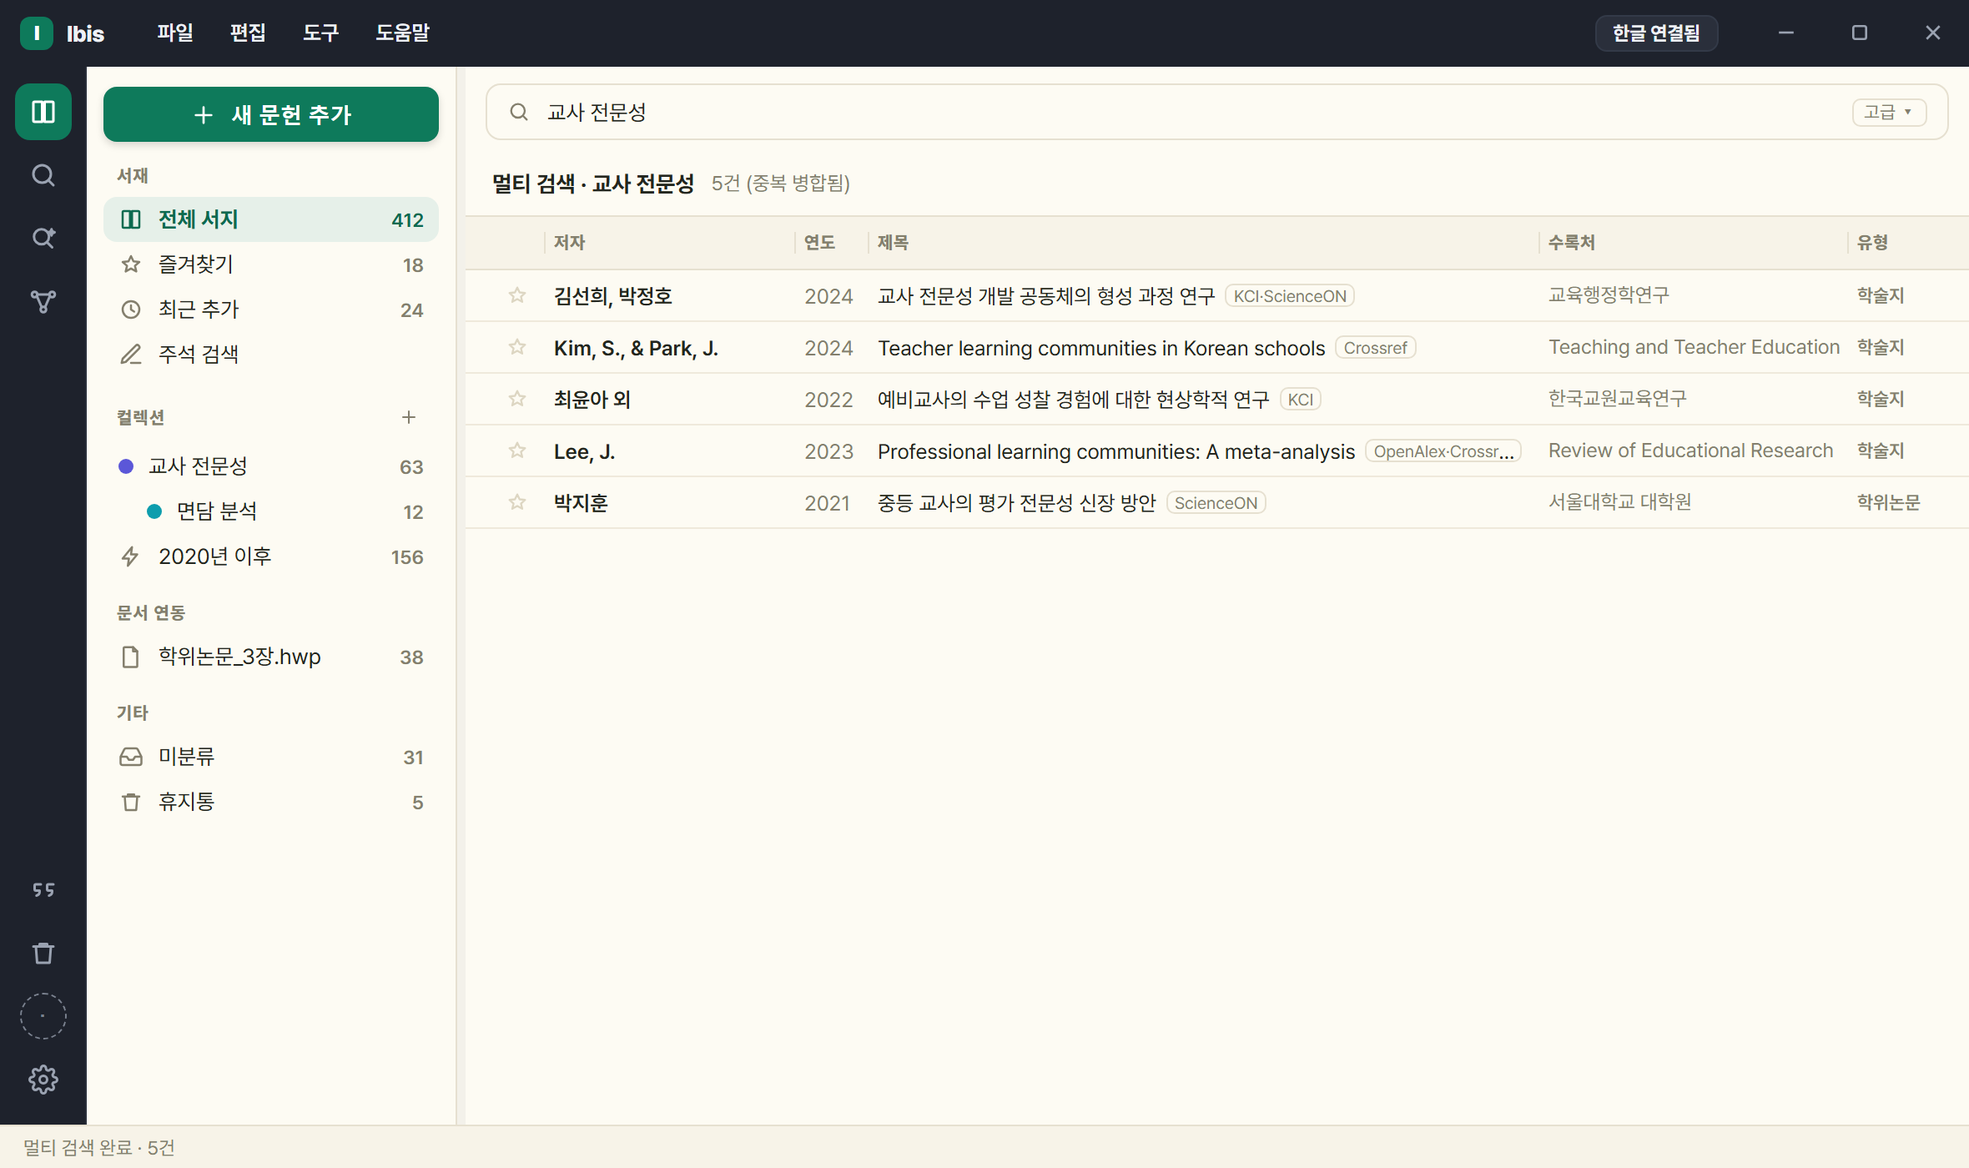
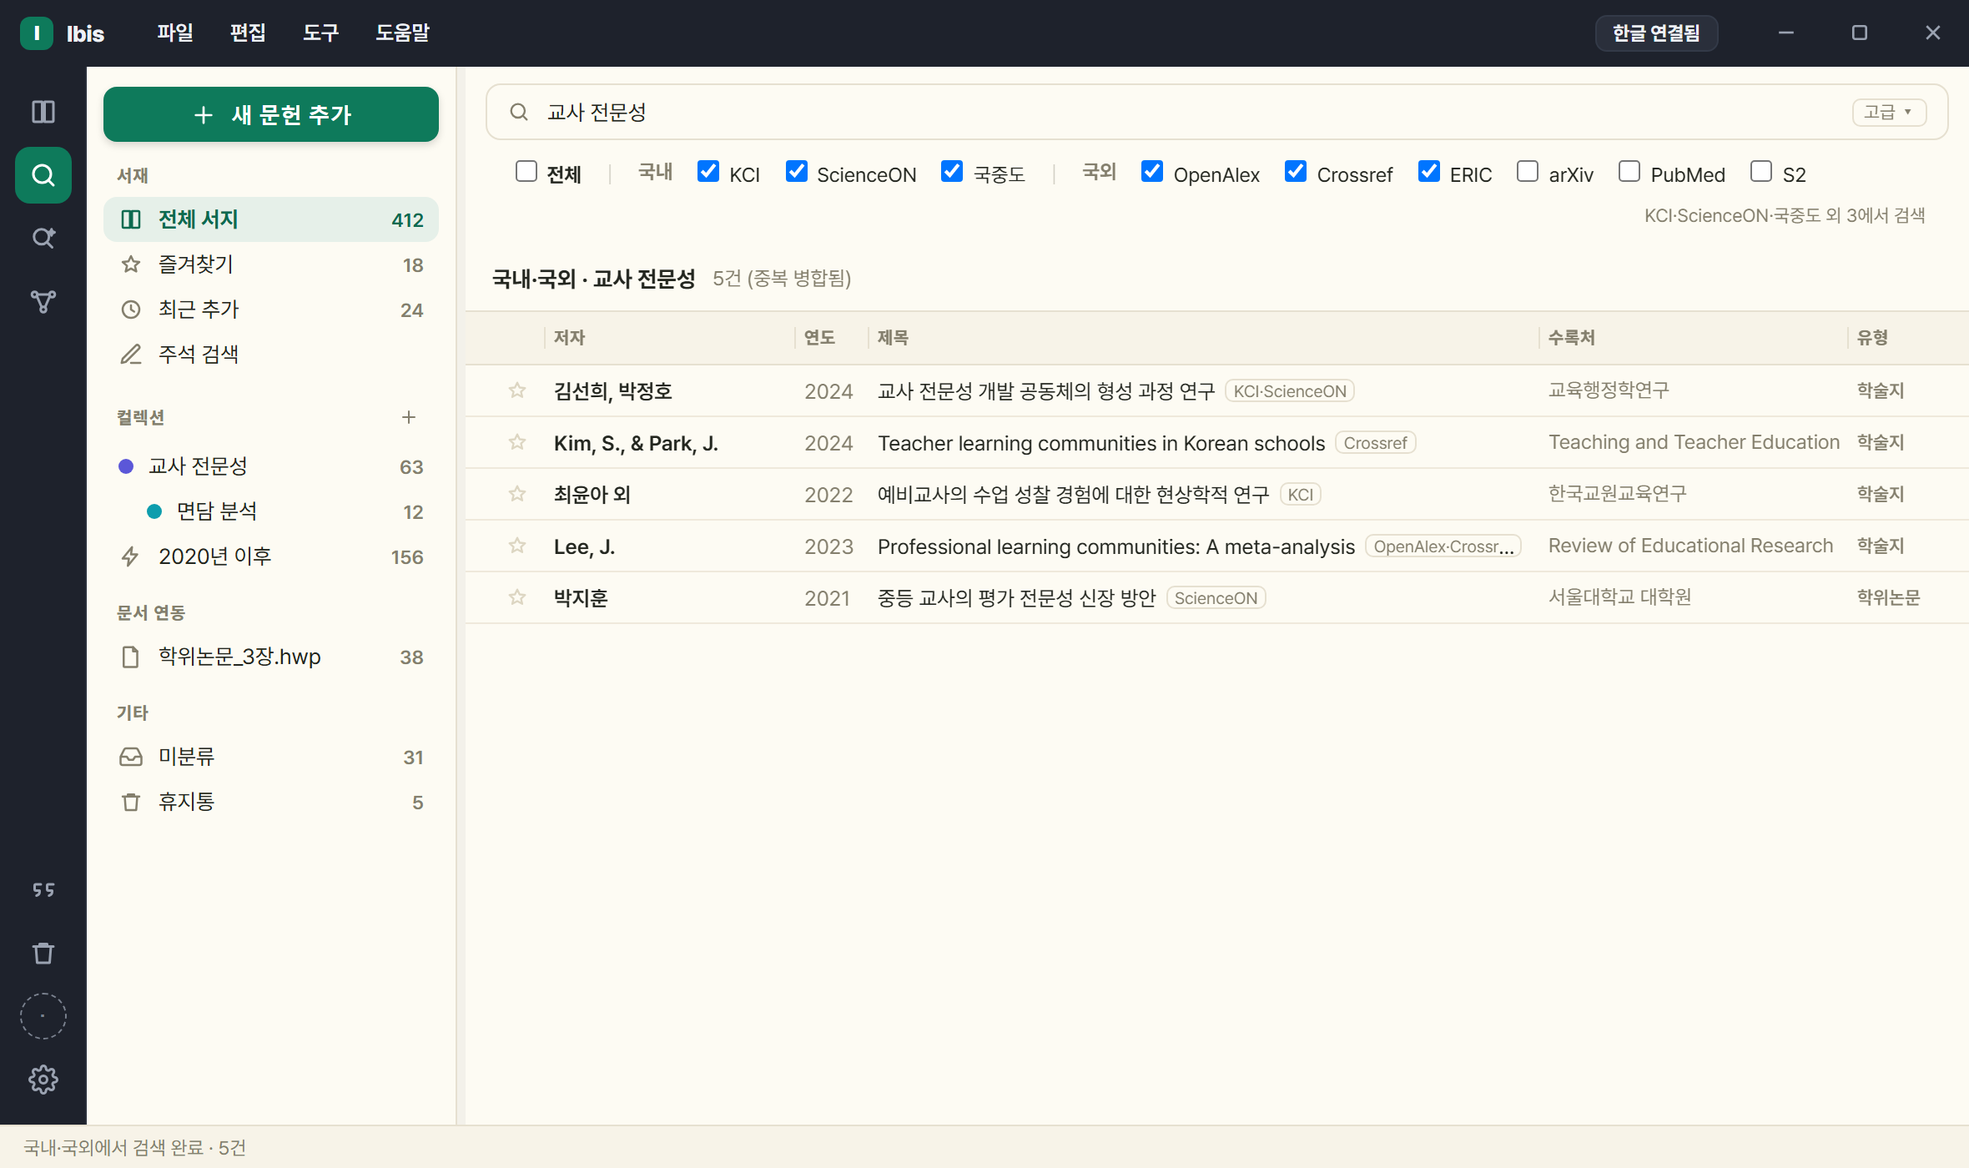
docs: 2026.9.7 반영 — '외부 검색' → 'DB 검색', 소스 선택이 검색줄 아래 체크 행으로
- 기능 이름 '외부 검색'을 전부 'DB 검색'으로(대비어 문장 포함). 남긴 것은 이름이 바뀌었음을 알리는 서술 세 곳뿐
- 3.2: 소스를 사이드바에서 고르던 것이 검색줄 아래 체크 행이 됐다(전체 │ 국내 │ 국외 · 묶음 글자로 통째 토글 ·
  임의 조합 · 조합 기억 · 오른쪽에 '○○에서 검색'). arXiv·PubMed·S2 기본 꺼짐. '내 서지'는 DB 검색 항목이 아니게 됨
- 3.3: '국내 통합'·'해외 통합' 두 항목이 사라졌으므로 「여러 DB 를 한 번에」로 다시 씀
- 3.6·FAQ 고급검색: 소스 드롭다운이 없어지고 전용 필드를 고르면 체크 행이 따라 바뀐다. 전역 한정자에서 소스 제외
- 레일 표: 세 모드가 같은 서재 사이드바를 쓴다는 것 명시. FAQ 신설 「'외부 검색'이 안 보여요」
- search.png 을 새 화면(체크 행 + 서재 사이드바)으로 교체

diff --git a/docs/USAGE.md b/docs/USAGE.md
@@ -1,6 +1,6 @@
 # Ibis 사용 설명서
 
-한국어로 연구하는 사람을 위한 **문헌 관리 앱**. **찾기 → 원문 확보 → 읽기·AI 분석 → 정리·태그 그래프 → 동료와 나누기** 까지 한 프로그램 안에서 합니다. 아래아한글·Word 본문 인용(CWYW)도 그중 한 기능입니다. 기준 버전 **2026.9.6**.
+한국어로 연구하는 사람을 위한 **문헌 관리 앱**. **찾기 → 원문 확보 → 읽기·AI 분석 → 정리·태그 그래프 → 동료와 나누기** 까지 한 프로그램 안에서 합니다. 아래아한글·Word 본문 인용(CWYW)도 그중 한 기능입니다. 기준 버전 **2026.9.7**.
 
 - 표기: `⚙설정` · `파일`·`편집`·`도구` 메뉴 · `새 문헌 추가` 는 화면의 실제 라벨입니다.
 - 좌측 세로 아이콘 줄 = **레일**, 상단의 '○○ 모드 · 문서명' = **상태 배지**.
@@ -58,7 +58,7 @@
 | 영역 | 하는 일 |
 |---|---|
 | **타이틀바** | 메뉴(파일·편집·도구·도움말) + 우측 **연결 상태 배지**(클릭 시 문서 연결) |
-| **레일**(맨 왼쪽) | 서재 · 외부 검색 · **질문으로 찾기** · 그래프 뷰 전환. 맨 아래에 **계정 동그라미**(로그인하면 구글 사진), 아래쪽에 **인용 편집 창** · 휴지통 · **⚙설정**(맨 아래). 레일의 참고문헌 갱신(⟳) 아이콘은 2026.9.6 에 뺐습니다 — 새로고침으로 오해돼서요. 갱신은 [4.5](#45-전체-갱신--참고문헌-갱신) 의 자리에서 합니다 |
+| **레일**(맨 왼쪽) | 서재 · **DB 검색** · **질문으로 찾기** · 그래프 뷰 전환(2026.9.7 부터 '외부 검색'을 **DB 검색**이라 부르고, 세 모드가 **같은 서재 사이드바**를 씁니다 — 어느 모드에서든 컬렉션을 누르면 그 뷰로 갑니다). 맨 아래에 **계정 동그라미**(로그인하면 구글 사진), 아래쪽에 **인용 편집 창** · 휴지통 · **⚙설정**(맨 아래). 레일의 참고문헌 갱신(⟳) 아이콘은 2026.9.6 에 뺐습니다 — 새로고침으로 오해돼서요. 갱신은 [4.5](#45-전체-갱신--참고문헌-갱신) 의 자리에서 합니다 |
 | **사이드바** | 맨 위 **'새 문헌 추가'** 버튼(추가 방법 메뉴 런처) + 서재 · 컬렉션 · 스마트 컬렉션 · 문서 연동 · 기타(미분류·중복 점검·휴지통·연결 안 된 PDF) |
 | **목록** | 검색줄 + 필터 칩 + 정렬·폭 조절 가능한 문헌 표 |
 | **상세 패널** | 서지정보 · 인용 미리보기 · 첨부. 인용 삽입과 원문·AI 동작 버튼 |
@@ -130,15 +130,17 @@
 
 - **질의에 적은 조건을 읽습니다 (2026.9.3)** — `2015년 이후`·`학위논문만`·`OO 저자`·`OO학회지`·`양적 연구는 빼고` 처럼 문장 안에 넣은 기간·유형·저자·학술지·제외·선호가 그대로 DB 검색 조건이 됩니다. 따로 칸을 채우지 않아도 됩니다.
 
-- **사이드바를 누르면 질문 화면을 닫고 그 뷰로 갑니다 (2026.9.6)** — 외부 검색 모드와 같은 동작입니다. 결과는 남아 있어 레일의 [질문으로 찾기]로 돌아오면 그대로이고, 결과 행을 컬렉션에 끌어 넣는 것도 그대로입니다. Ibis AI 를 켠 직후에도 '⚙설정에서 켜 주세요'가 뜨던 문제도 함께 고쳤습니다.
+- **사이드바를 누르면 질문 화면을 닫고 그 뷰로 갑니다 (2026.9.6)** — DB 검색 모드와 같은 동작입니다. 결과는 남아 있어 레일의 [질문으로 찾기]로 돌아오면 그대로이고, 결과 행을 컬렉션에 끌어 넣는 것도 그대로입니다. Ibis AI 를 켠 직후에도 '⚙설정에서 켜 주세요'가 뜨던 문제도 함께 고쳤습니다.
 - **여러 개 골라 한 번에 (2026.9.5)** — Ctrl 클릭으로 더하거나 빼고 Shift 클릭으로 범위를 고른 뒤 끌면 고른 전부가 컬렉션으로 갑니다(서재 목록과 같은 규칙).
 - **'많이 인용된·대표적인·고전적인' 조건이 순위에 실제로 반영됩니다 (2026.9.5)** — 해외 DB(OpenAlex·Crossref)의 피인용 수를 새로 담고(상세의 '피인용(해외 DB)' 줄) KCI 피인용과 따로 정규화합니다. 관련도가 분명히 낮은 문헌이 피인용만으로 앞서지는 않습니다.
 
-> 낱말로 좁혀 찾는 것은 여전히 **외부 검색**([3.2](#32-검색-소스))입니다. 질문으로 찾기는 *무엇을 찾아야 할지부터 넓게 훑을 때* 씁니다.
+> 낱말로 좁혀 찾는 것은 **DB 검색**([3.2](#32-검색-소스))입니다. 질문으로 찾기는 *무엇을 찾아야 할지부터 넓게 훑을 때* 씁니다.
 
 ### 3.2 검색 소스
 
-소스는 **국내 3종 · 해외 6종** 으로 나뉘고, 각 묶음에 **'국내 통합'·'해외 통합'** 이 있어 묶음 안을 병렬로 질의한 뒤 중복을 합칩니다.
+레일의 **DB 검색**(2026.9.7 부터의 이름 — 그전에는 '외부 검색')입니다. 어디서 찾을지는 **검색줄 바로 아래 체크 행**에서 고릅니다(질문으로 찾기와 같은 모양) — `전체 │ 국내 KCI·ScienceON·국중도 │ 국외 OpenAlex·Crossref·ERIC·arXiv·PubMed·S2`(arXiv·PubMed·S2 는 주제 범위가 좁아 **기본 꺼짐**). **'국내'·'국외' 글자를 누르면 그 묶음이 통째로 켜지고 꺼지며**, 원하는 대로 섞어도 됩니다(KCI+ERIC 만 같은 조합도 가능). 고른 조합은 기억되고, 오른쪽 끝에 `○○에서 검색` 이라고 지금 조합이 적힙니다.
+
+소스는 **국내 3종 · 해외 6종** 이며, 둘 이상을 켜면 병렬로 질의한 뒤 중복을 합칩니다.
 
 | 묶음 | 소스 | 커버리지 | 키 |
 |---|---|---|---|
@@ -151,13 +153,13 @@
 | 해외 | arXiv | 프리프린트 | 불필요 |
 | 해외 | Semantic Scholar(S2) | CS·융합 | 불필요 |
 | 해외 | **PubMed** (2026.9.5) | 의학·보건·간호(미국 국립의학도서관) — 초록·MeSH 주제어 포함, 총건수 표시. 주제 범위가 좁아 **해외 통합·질문으로 찾기에서는 기본 꺼짐** | 불필요 |
-| — | 내 서지 | 보관한 문헌 | — |
+| — | 내 서지 | 보관한 문헌 — 2026.9.7 부터 DB 검색의 체크 항목이 아닙니다. 내 문헌은 **서재 모드의 검색줄**에서 찾습니다([3.8](#38-내-서지-전문검색fts)) | — |
 
 - **KCI 와 국립중앙도서관은 앱 내장 키로 동작합니다** — 사용자가 발급받을 것이 없고 설정에 입력 칸도 없으며, 설치 직후부터 소스 목록에 보입니다.
 - **ScienceON 만** 사용자 발급 키(Client ID·인증키·등록 MAC)가 필요합니다([9.1](#91-api-키이메일-발급)). 없어도 나머지 소스로 앱은 온전히 동작합니다.
 - 학술논문은 KCI 가, 그 밖의 국내 발행물은 국립중앙도서관이 맡습니다. 유형을 지정하지 않은 국립중앙도서관 검색은 소장자료 네 갈래를 병렬로 훑습니다.
 - RISS 는 검색 소스가 아니라 **원문 확보 경로 전용**입니다([7절](#7-원문-확보pdf-뷰어)).
-- 검색: 소스 선택 → 검색어 입력 → Enter → 페이지당 20건.
+- 검색: **체크 행에서 DB 고르기 → 검색어 입력 → Enter** → 페이지당 20건. 체크를 바꾸면 목록이 새 조합으로 바뀌고, 실제 검색은 Enter 로 합니다(질문으로 찾기와 같은 결).
 
 **열람 상한** — 소스가 내주는 범위에 한계가 있습니다.
 
@@ -167,12 +169,11 @@
 
 **총건수 표시** — 목록 머리에 `20건 (총 465건)`, 상태줄에 `국립중앙도서관 · 총 332건 중 20건` 처럼 나옵니다. 총건수를 알려 주지 않는 소스(Crossref·OpenAlex·S2·arXiv·ERIC)는 미상으로 두고 숫자를 적지 않습니다.
 
-![외부 검색 결과 — 출처 배지](images/search.png)
+![DB 검색 — 검색줄 아래 DB 선택 행, 결과에 출처 배지](images/search.png)
 
-### 3.3 통합 검색(병렬 + 중복 병합)
+### 3.3 여러 DB 를 한 번에(병렬 + 중복 병합)
 
-- **'국내 통합'** — KCI · ScienceON · 국립중앙도서관을 **동시 질의**.
-- **'해외 통합'** — OpenAlex · Crossref · ERIC · arXiv · S2 를 **동시 질의**.
+- 체크 행에서 **둘 이상 켜면** 켠 DB 를 **동시 질의**합니다. **국내**(KCI·ScienceON·국중도)나 **국외**를 통째로 켜는 것이 흔한 쓰임이지만, 조합은 자유입니다(2026.9.7 — 그전에는 '국내 통합'·'해외 통합' 두 항목만 있었습니다).
 - 병합 기준: **DOI 우선**, 없으면 정규화 제목+연도 → 출처를 누적 표시.
 - 일부 소스가 실패(키 미설정·429)해도 나머지는 진행하고, 실패한 소스명이 결과 제목줄에 함께 보고됩니다.
 
@@ -215,11 +216,11 @@ DOI 가 논문의 권위 키라면 단행본은 **ISBN** 입니다. 학술 DB(KC
 | **국립중앙도서관 전용** | ISBN·ISSN · 분류기호 · 자료구분 · 수록연도 |
 | **내 서지 전용** | 초록 · 첨부파일명 |
 
-- 전용 필드를 고르면 **소스가 그쪽으로 따라갑니다.** 그 소스가 못 하는 조건은 조용히 무시하지 않고 이유를 안내줄에 적습니다.
+- 전용 필드를 고르면 **위 체크 행이 그 DB 로 바뀝니다**(2026.9.7 — 그전에는 고급 검색 안의 소스 드롭다운이었습니다). 그 DB 가 못 하는 조건은 조용히 무시하지 않고 이유를 안내줄에 적습니다.
 
 **전역 한정자**(행이 아니라 질의 전체에 걸립니다)
 
-- 소스 · **유형(공통)** · 정렬 · 발행년 범위.
+- **유형(공통)** · 정렬 · 발행년 범위. (어느 DB 에서 찾을지는 고급 검색 안이 아니라 **검색줄 아래 체크 행**입니다.)
 - 유형 값: 전체 · 학술논문 · 학위논문 · 단행본 · 보고서 · 연속간행물 · 웹자료 · 비도서(소스마다 고를 수 있는 값이 다릅니다).
 - `자료구분`(국립중앙도서관 전용)은 서버로 그대로 보내는 **자료 종별 13종**(일반도서·학위논문·정부간행물·공공간행물·아동도서·교과서·학습참고서·한장본·점자도서·장애인대체자료·비도서·연속간행물·온라인자료)이며 '유형(공통)' 과는 다릅니다.
 - ⚠ **'단행본'·'보고서' 유형은 그 갈래의 일부만 찾습니다** — 국립중앙도서관 자료구분은 한 번에 하나만 보낼 수 있어 대표 코드 하나로 묻습니다(단행본=일반도서만, 보고서=정부간행물만). 앱이 이 사실을 결과줄에 매번 밝힙니다.

diff --git a/docs/FAQ.md b/docs/FAQ.md
@@ -1,6 +1,6 @@
 # Ibis FAQ
 
-한국 연구자를 위한 서지·인용 관리 앱 **Ibis** 자주 묻는 질문. 기준 버전 **2026.9.6**.
+한국 연구자를 위한 서지·인용 관리 앱 **Ibis** 자주 묻는 질문. 기준 버전 **2026.9.7**.
 
 - **국내 학술 검색 → 원문 확보 → AI 분석 → 태그 그래프**까지 한 프로그램에서 끝냅니다.
 - 한글(HWP)·Word 본문 인용 삽입(CWYW)도 그중 한 기능입니다.
@@ -232,14 +232,19 @@
 - **치른 크레딧이 아깝지 않게** — [최근 질의] 에서 누르면 **크레딧 0** 으로 결과가 되살아납니다.
 - **질의에 적은 조건을 읽습니다 (2026.9.3)** — `2015년 이후`·`학위논문만`·`OO 저자`·`OO학회지`·`양적 연구는 빼고` 처럼 문장 안에 넣은 기간·유형·저자·학술지·제외·선호가 그대로 DB 검색 조건이 됩니다.
 - **여러 개 골라 한 번에 컬렉션으로 (2026.9.5)** — Ctrl·Shift 클릭으로 고른 뒤 끌면 전부 갑니다. '많이 인용된·대표적인' 같은 조건도 해외 DB 피인용 수로 순위에 실제 반영됩니다.
-- **사이드바를 누르면 질문 화면을 닫고 그 뷰로 갑니다(2026.9.6)** — 외부 검색과 같습니다. 결과는 남아 있어 레일 아이콘으로 돌아오면 그대로입니다.
-- 낱말로 좁혀 찾는 것은 여전히 **외부 검색**입니다. 둘은 쓰임이 다릅니다.
+- **사이드바를 누르면 질문 화면을 닫고 그 뷰로 갑니다(2026.9.6)** — DB 검색과 같습니다. 결과는 남아 있어 레일 아이콘으로 돌아오면 그대로입니다.
+- 낱말로 좁혀 찾는 것은 **DB 검색**입니다. 둘은 쓰임이 다릅니다.
+
+**Q. '외부 검색' 이 안 보여요. (2026.9.7)**
+
+- 이름이 **DB 검색** 으로 바뀌었습니다(레일 두 번째 아이콘). 하는 일은 같습니다.
+- 사이드바도 바뀌었습니다 — 예전에는 이 모드에서 사이드바가 소스 목록이었는데, 이제 **세 모드(서재·DB 검색·질문으로 찾기)가 같은 서재 사이드바**를 씁니다. 어디서 찾을지는 **검색줄 아래 체크 행**에서 고르고, 사이드바의 컬렉션을 누르면 그 뷰로 갑니다.
 
 **Q. 어떤 검색 소스를 쓸 수 있나요?**
 
 - **9종** — 국내: KCI · ScienceON · 국립중앙도서관 / 해외: OpenAlex · Crossref · ERIC · arXiv · Semantic Scholar · **PubMed**(2026.9.5).
 - PubMed 는 미국 국립의학도서관의 의학·보건·간호 DB(초록·MeSH 주제어 포함). 주제 범위가 좁아 **해외 통합·질문으로 찾기에서는 arXiv 처럼 기본 꺼짐**이고 필요할 때 켭니다.
-- **'국내 통합'·'해외 통합'** — 각 묶음을 병렬 질의 후 중복 병합.
+- 어디서 찾을지는 **검색줄 아래 체크 행**에서 고릅니다(2026.9.7) — `전체 │ 국내 │ 국외`. '국내'·'국외' 글자를 누르면 묶음이 통째로 켜지고, 원하는 대로 섞어도 됩니다. 둘 이상이면 병렬 질의 후 중복 병합하고, 고른 조합은 기억됩니다.
 - ERIC 은 미국 교육부 IES 가 운영하는 교육학 DB(저널논문·문서/보고서), 키 불필요.
 - ScienceON 을 뺀 8종은 설치 직후부터 바로 보입니다.
 
@@ -250,7 +255,7 @@
 - 학위논문은 **최신까지** 나옵니다(소장자료 색인 기반). 정렬을 안 골라도 최신부터 보여 줍니다.
 - ⚠ **'단행본'·'보고서' 유형은 그 갈래의 일부만** 찾습니다 — 자료구분을 한 번에 하나만 보낼 수 있어 단행본=일반도서만, 보고서=정부간행물만 조회됩니다(아동도서·교과서·공공간행물 등은 빠짐). 앱이 결과줄에 매번 밝힙니다.
 
-**Q. ScienceON 이 드롭다운에 안 보여요.**
+**Q. ScienceON 이 DB 목록에 안 보여요.**
 
 - ScienceON 만 사용자 인증키가 필요해, 설정돼 있을 때만 표시됩니다.
 - scienceon.kisti.re.kr › 인증키 발급 신청 → **Client ID·인증키·등록 MAC 3개 모두** 입력(하나라도 빠지면 비활성). (helpdesk@kisti.re.kr · 080-969-4114)
@@ -268,7 +273,7 @@
 - 또는 ⚙설정의 'DOI로 추가' 칸 → 바로 내 서지에 보관.
 - doi.org content negotiation 사용 — 등록기관 무관, 키 불필요.
 
-**Q. 통합 검색에서 한 소스가 실패하면?**
+**Q. 여러 DB 로 검색할 때 하나가 실패하면?**
 
 - 나머지는 계속 진행되고, 결과 제목줄에 실패한 소스명이 표시됩니다.
 - 중복 병합 기준: **DOI 우선**, 없으면 정규화 제목+연도.
@@ -289,8 +294,8 @@
 
 - `[그리고/또는] [필드] [포함/정확히 이 구] [값]` 조건 줄을 ＋로 쌓습니다(한 묶음 8줄, 「또는」 묶음 3개까지). **「그리고」가 먼저 묶입니다.**
 - 필드 그룹: **공통**(전체·제목·저자·발행처·학술지·키워드) / **KCI 전용**(DOI·저자 소속기관·발행기관) / **국립중앙도서관 전용**(ISBN·ISSN·분류기호·자료구분·수록연도) / **내 서지 전용**(초록·첨부파일명).
-- 전용 필드를 고르면 **소스가 따라 바뀝니다.**
-- 고급검색을 열면 검색창의 글자가 첫 조건 줄로 옮겨 갑니다(닫으면 되돌림).
+- 전용 필드를 고르면 **체크 행이 그 DB 로 바뀝니다.**
+- 고급검색을 열면 검색창의 글자가 첫 조건 줄로 옮겨 갑니다(닫으면 되돌림). 어느 DB 에서 찾을지는 고급검색 안이 아니라 **검색줄 아래 체크 행**입니다(2026.9.7 — 그전에는 고급검색 안의 소스 드롭다운).
 - 다중 조건을 못 받는 소스: ScienceON 과 해외 소스 전부.
 
 **Q. 고급검색에 초록 검색과 제외(NOT)가 없어요.**

diff --git a/README.md b/README.md
@@ -61,7 +61,7 @@
 
 **수집**
 - 국내 **KCI · 국립중앙도서관 · ScienceON**, 해외 **OpenAlex · Crossref · ERIC · arXiv · Semantic Scholar · PubMed**(2026.9.5)
-  — 국내·해외 각각 **통합 검색**이 병렬 질의 후 중복을 합칩니다. KCI·국립중앙도서관은 **설치 직후부터 바로** 쓰입니다
+  — 검색줄 아래 체크 행에서 **찾을 DB 를 골라**(국내·국외를 통째로 켜거나 원하는 대로 섞어) 병렬 질의 후 중복을 합칩니다. KCI·국립중앙도서관은 **설치 직후부터 바로** 쓰입니다
 - 「그리고」·「또는」 으로 조건을 엮는 **다중 조건 고급검색**(소스별 전용 필드 지원, 적용 안 된 조건은 이유를 표시)
 - DOI 붙여넣기 즉시 서지화 · 6개 형식 가져오기(RIS·BibTeX·CSL-JSON·EndNote(.enw)·RefWorks·Tab) · 내보내기(CSL-JSON·BibTeX)
 - **서지 직접 추가(＋)**: 서식 인용문 붙여넣기 파싱, DOI 없는 자료는 유형별 폼으로 수동 입력
